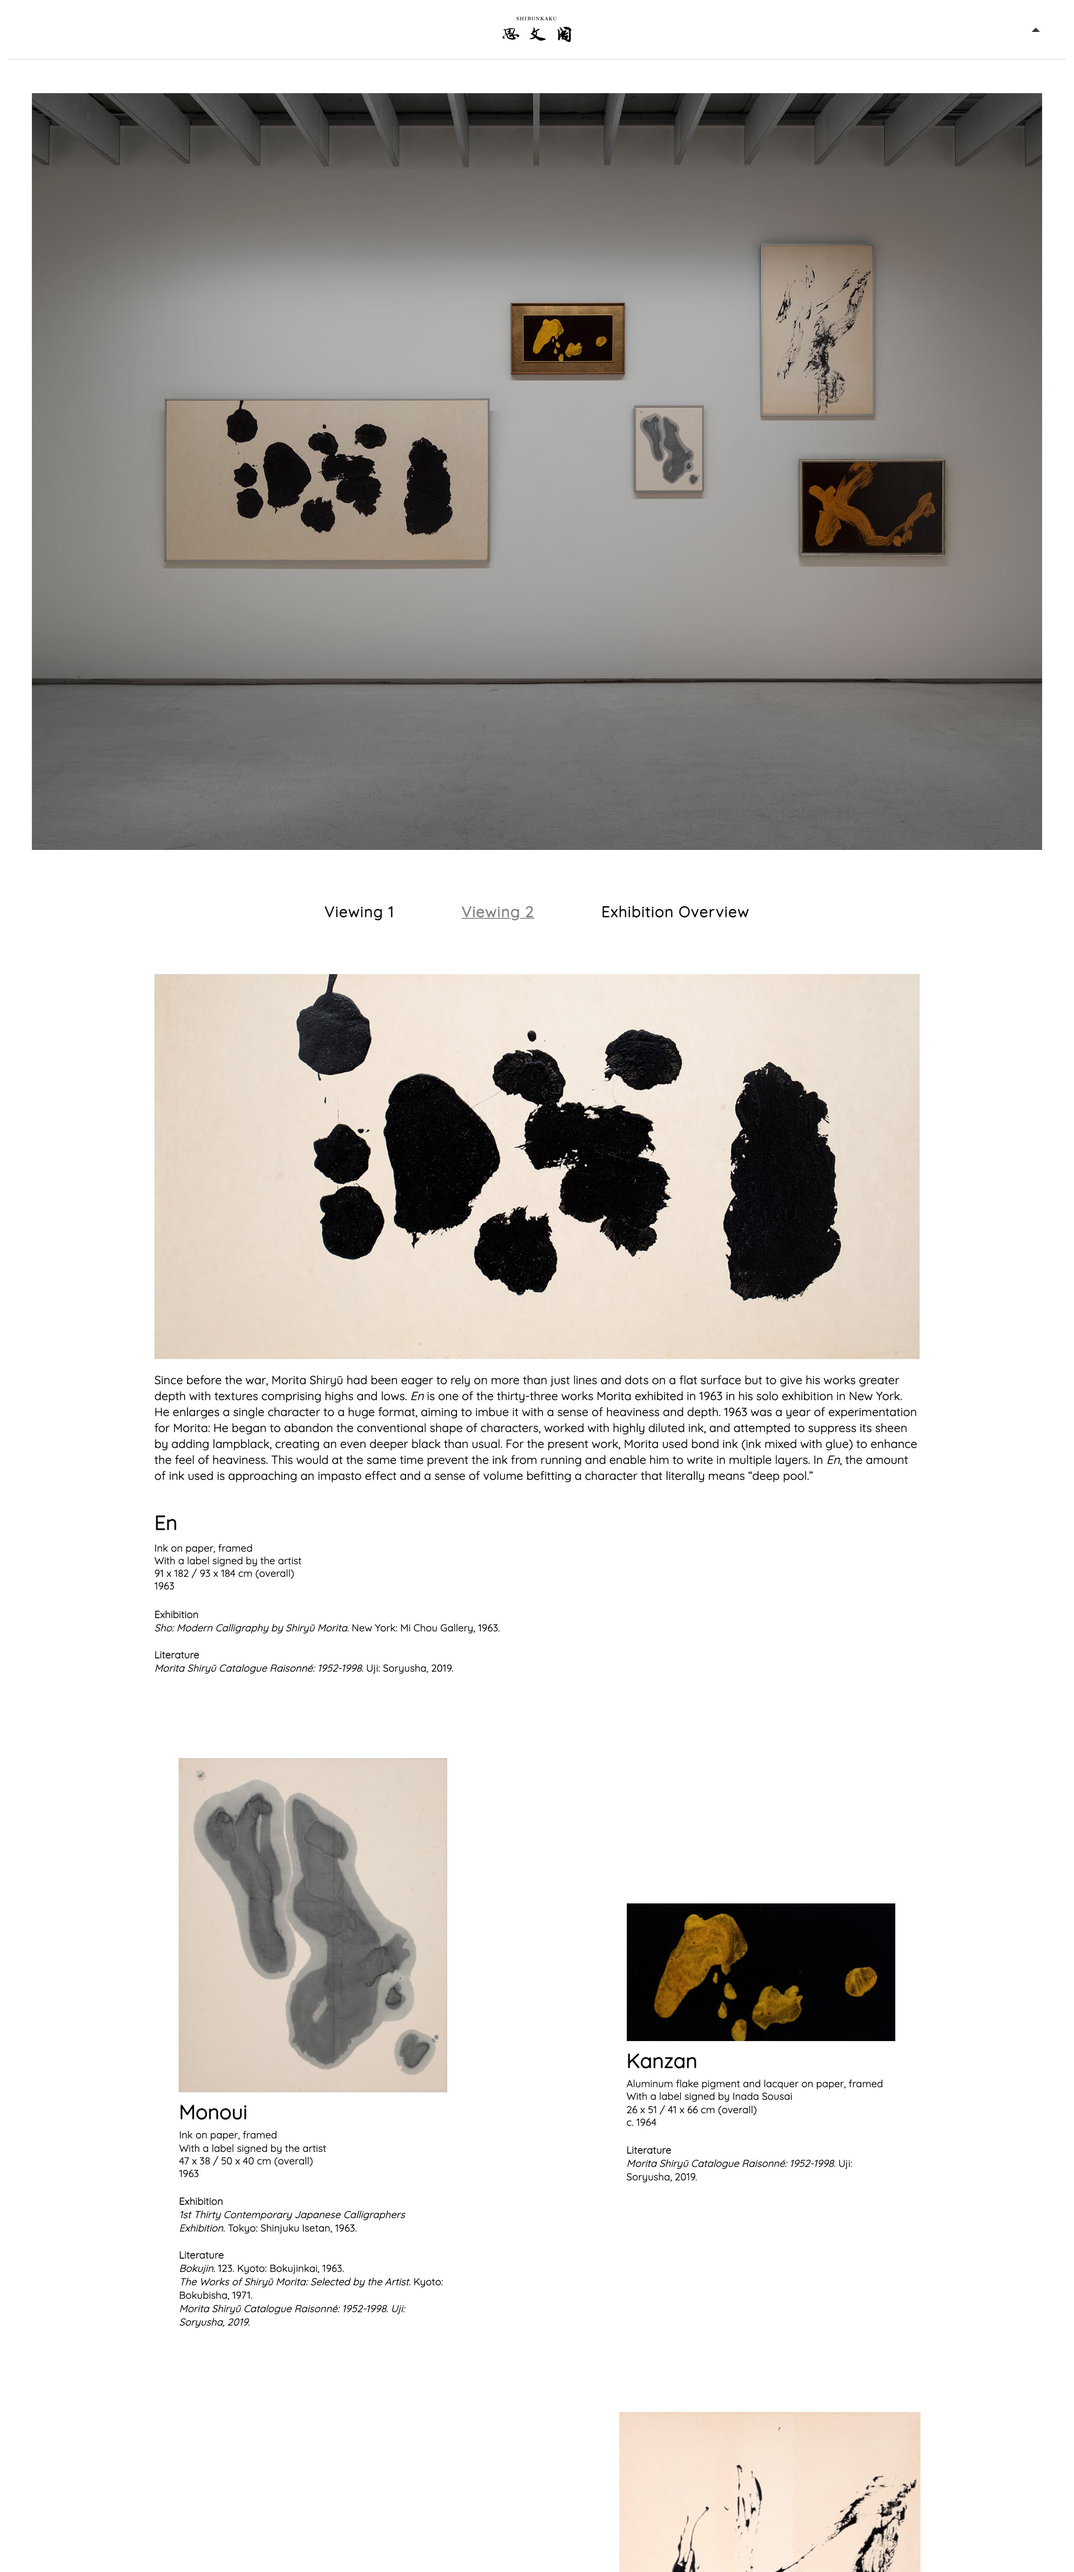
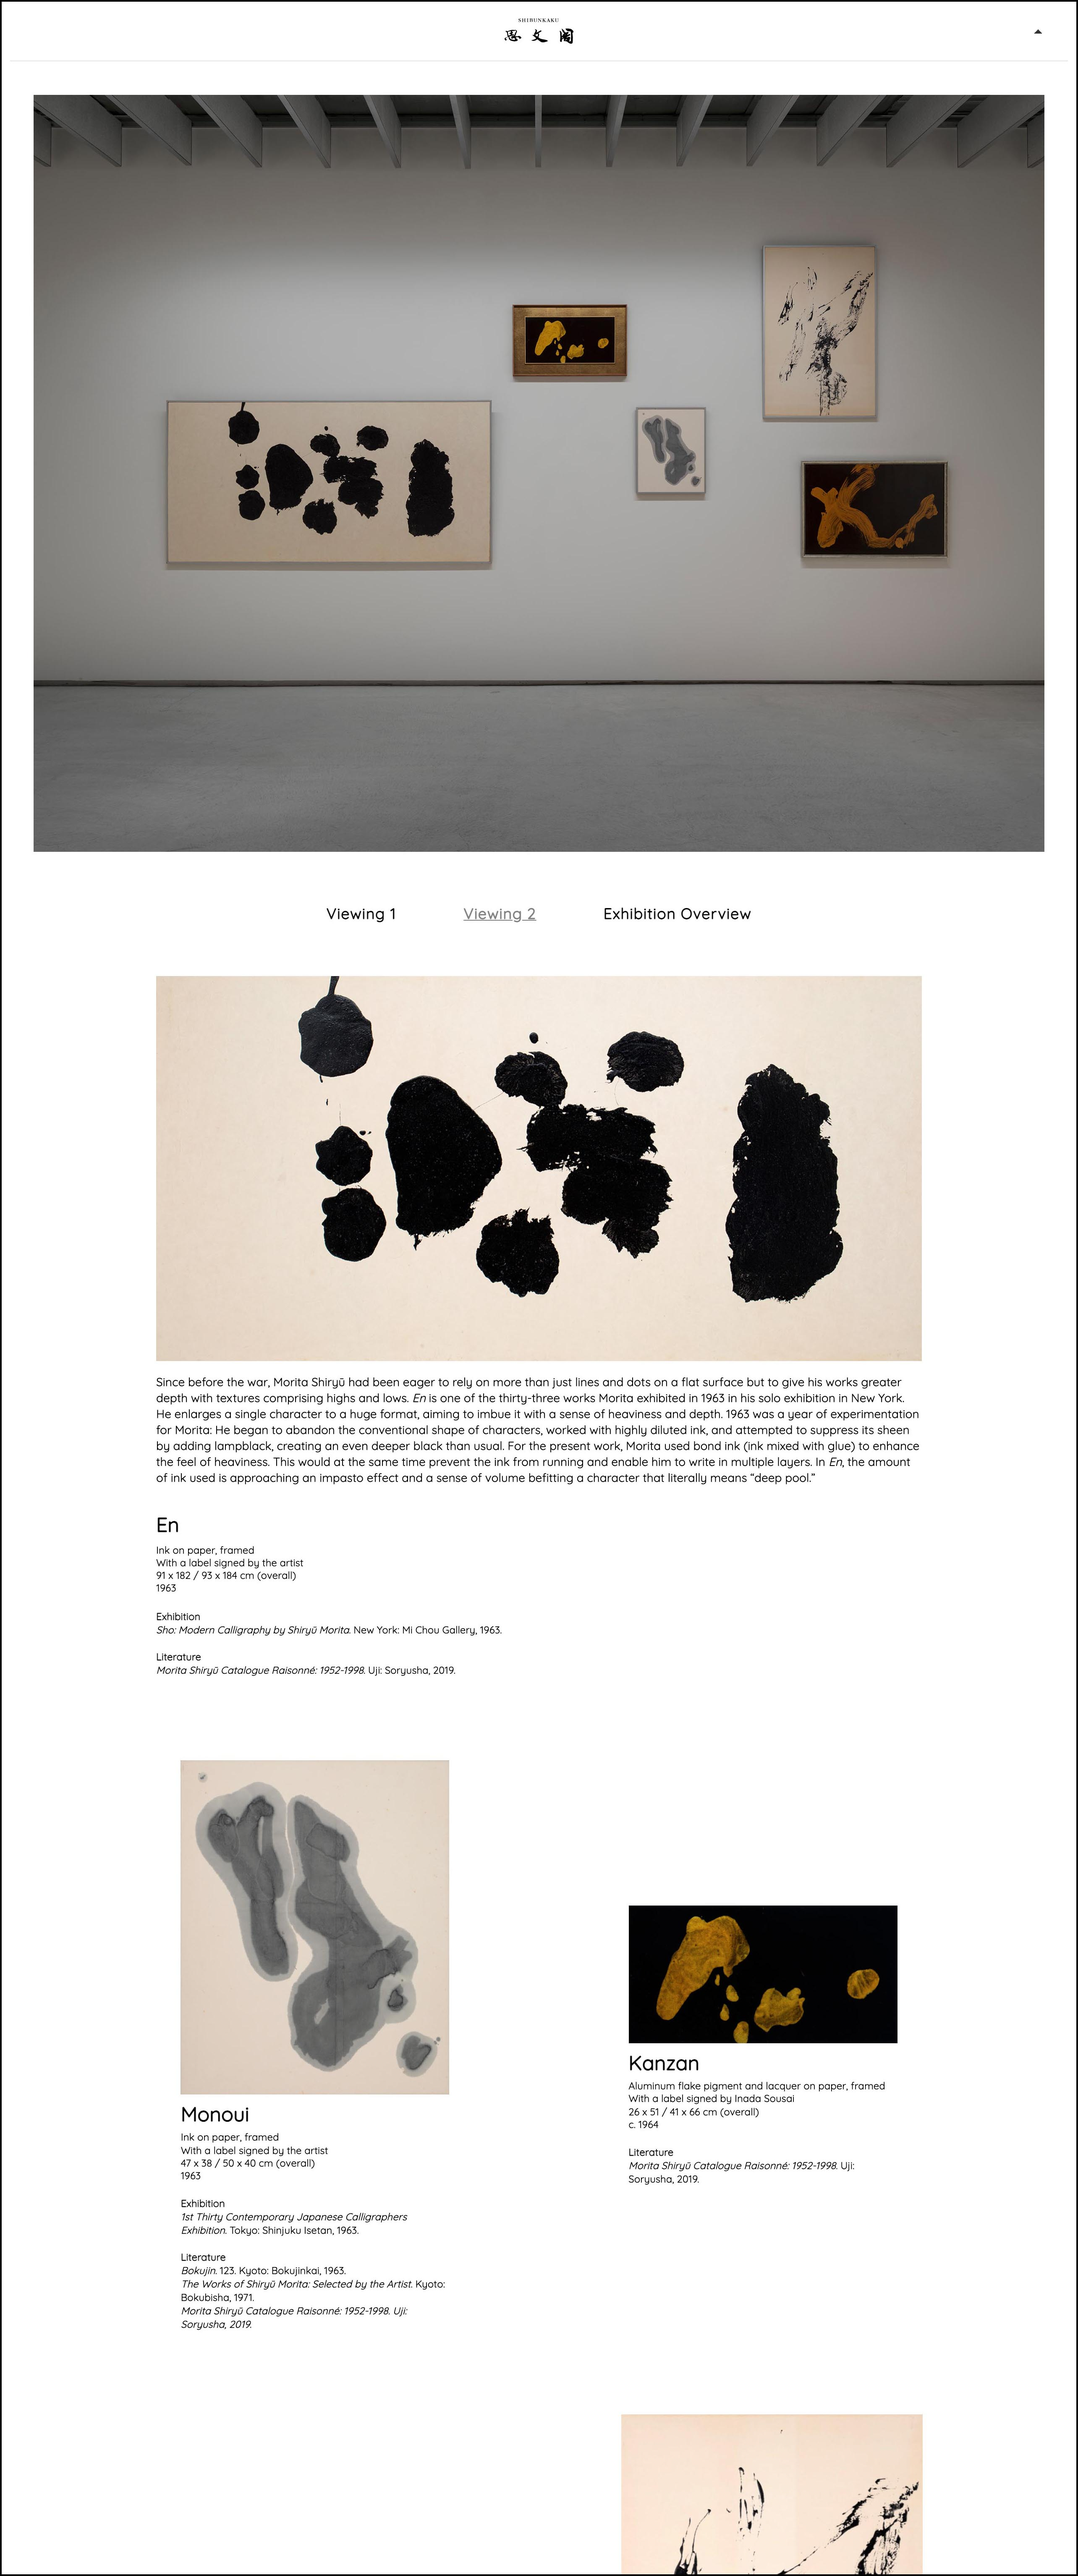
Project page Morita mostly done

diff --git a/src/styles/styles.sass b/src/styles/styles.sass
@@ -50,7 +50,6 @@ nav
         left: 0
         width: 100%
         height: 100%
-        // z-index: 0
     .navbar
         display: flex
         flex-direction: row
@@ -72,6 +71,8 @@ nav
                 font-size: 0.8rem
     .language-switch
         padding: 0 8rem 2.5rem
+        position: relative
+        z-index: 99
         button
             border: none
             background: none
@@ -82,7 +83,6 @@ nav
             color: #999
             cursor: pointer
             transition: $default-transition
-            z-index: 99
             &:first-child
                 margin-right: 1rem
             &:hover
@@ -106,7 +106,7 @@ nav
         font-size: 0.8rem
         padding-right: 40%
 
-// GRID
+// GRID -- scrap all this
 .grid-two
     display: grid
     grid-template-columns: repeat(2, 1fr)
@@ -186,7 +186,7 @@ nav
 .banner-active
     transform: rotate(0.5deg) translateX(10px) translateY(-15px)
 
-// LARGE IMAGE LEFT
+// LARGE IMAGE LEFT -- scrap later
 .project
     font-family: 'Nunito', sans-serif
     margin: 0 8rem
@@ -229,7 +229,7 @@ nav
         letter-spacing: 1px
         margin-top: 0
 
-// LARGE VIDEO
+// LARGE VIDEO -- remove later if not needed?
 .video-container
     display: flex
     justify-content: center
@@ -248,12 +248,11 @@ nav
 // TWO VIDEOS
 .video-2-container
     display: flex
-    // grid-template-columns: 1fr 1fr
     justify-content: space-between
     margin: 0 auto
     padding: 0 12%
     .small-video
-        margin-top: 6rem
+        margin-top: 2rem
         display: flex
         flex-direction: column
         justify-content: space-between
@@ -262,7 +261,6 @@ nav
         p
             font-family: 'Nunito', sans-serif
             font-size: 0.75rem
-            font-weight: lighter
             padding-top: 0.33rem
 
 // TWO IMAGES
@@ -278,6 +276,35 @@ nav
             margin-right: 6rem
         &:nth-child(3)
             width: 12.5%
+
+// IMAGE COLLAGE 1
+.image-collage-1
+    margin: 4rem 8rem
+    display: grid
+    grid-template-columns: repeat(4, 1fr)
+    grid-auto-rows: minmax(100px, auto)
+    column-gap: 3rem
+    row-gap: 2rem
+    div
+        background-color: chartreuse
+        img
+            width: 100%
+            display: block
+    #item-1
+        grid-column: 1 / 3
+        grid-row: 1 / 4
+    #item-2
+        grid-column: 3
+        grid-row: 1 / 3
+    #item-3
+        grid-column: 4
+        grid-row: 1 / 3
+    #item-4
+        grid-column: 1 / 3
+        grid-row: 4 / 6
+    #item-5
+        grid-column: 3 / 5
+        grid-row: 3 / 6
 
 // FOOTER
 .footer

diff --git a/src/components/projects/projectPages/Morita.js b/src/components/projects/projectPages/Morita.js
@@ -2,22 +2,30 @@ import LargeTextCenter from '../reuseComponents/LargeTextCenter';
 import MoritaData from '../../../data/projectData/MoritaData';
 import TwoVideos from '../reuseComponents/TwoVideos';
 import ThreeImages from '../reuseComponents/ThreeImages';
+// import LargeImageLeft from '../reuseComponents/LargeImageLeft';
 
 import desktopImg from '../../../img/morita/morita_macbook.jpg';
 import ipadImg from '../../../img/morita/morita_ipad.jpg';
 import iphoneImg from '../../../img/morita/morita_iphone.jpg';
-import vip1 from '../../../img/morita/morita_vip1.jpg';
-import vip2 from '../../../img/morita/morita_vip2.jpg';
+import ImageCollage1 from '../reuseComponents/ImageCollage1';
+
+// collage images
+import collage1_1 from '../../../img/morita/morita_vip1.jpg';
+import collage1_2 from '../../../img/morita/morita_vip2.jpg';
+import collage1_3 from '../../../img/morita/mortia-part4-snippet.jpg';
+import collage1_5 from '../../../img/morita/morita-part3-snippet.jpg';
 
 const MoritaProject = () => {
     const { headline2, headline3, FootNoteText } = MoritaData;
 
     return (
         <>
+            {/* <LargeImageLeft /> */}
             <ThreeImages img1={desktopImg} img2={ipadImg} img3={iphoneImg} />
+            <LargeTextCenter headline='Pullquote Animations' />
             <TwoVideos />
             <LargeTextCenter headline={headline2} />
-            <ThreeImages img1={vip1} img2={vip2} />
+            <ImageCollage1 img1={collage1_1} img2={collage1_2} img3={collage1_3} img5={collage1_5} />
             <LargeTextCenter headline={headline3} text={FootNoteText} />
 
             {/* div below: replace later */}

diff --git a/src/App.css b/src/App.css
@@ -79,6 +79,8 @@ nav .navbar .menu a {
 }
 nav .language-switch {
   padding: 0 8rem 2.5rem;
+  position: relative;
+  z-index: 99;
 }
 nav .language-switch button {
   border: none;
@@ -90,7 +92,6 @@ nav .language-switch button {
   color: #999;
   cursor: pointer;
   transition: 0.5s;
-  z-index: 99;
 }
 nav .language-switch button:first-child {
   margin-right: 1rem;
@@ -295,7 +296,7 @@ nav .language-switch button:hover {
   padding: 0 12%;
 }
 .video-2-container .small-video {
-  margin-top: 6rem;
+  margin-top: 2rem;
   display: flex;
   flex-direction: column;
   justify-content: space-between;
@@ -306,7 +307,6 @@ nav .language-switch button:hover {
 .video-2-container .small-video p {
   font-family: "Nunito", sans-serif;
   font-size: 0.75rem;
-  font-weight: lighter;
   padding-top: 0.33rem;
 }
 
@@ -325,6 +325,42 @@ nav .language-switch button:hover {
 }
 .two-images img:nth-child(3) {
   width: 12.5%;
+}
+
+.image-collage-1 {
+  margin: 4rem 8rem;
+  display: grid;
+  grid-template-columns: repeat(4, 1fr);
+  grid-auto-rows: minmax(100px, auto);
+  column-gap: 3rem;
+  row-gap: 2rem;
+}
+.image-collage-1 div {
+  background-color: chartreuse;
+}
+.image-collage-1 div img {
+  width: 100%;
+  display: block;
+}
+.image-collage-1 #item-1 {
+  grid-column: 1/3;
+  grid-row: 1/4;
+}
+.image-collage-1 #item-2 {
+  grid-column: 3;
+  grid-row: 1/3;
+}
+.image-collage-1 #item-3 {
+  grid-column: 4;
+  grid-row: 1/3;
+}
+.image-collage-1 #item-4 {
+  grid-column: 1/3;
+  grid-row: 4/6;
+}
+.image-collage-1 #item-5 {
+  grid-column: 3/5;
+  grid-row: 3/6;
 }
 
 .footer {

diff --git a/src/data/projectData/MoritaData.js b/src/data/projectData/MoritaData.js
@@ -16,13 +16,13 @@ Production time: Fall 2020<br>
 Online since: late December 2020<br>
 Tools used: React, SASS, Github, Google Cloud Platform`;
 
-const headline2 = `VIP Pages`;
+const headline2 = `Exhibition Main Page & VIP Pages`;
 
 const MoritaVIPText = `The site contains a VIP area intended for prospective clients and collectors which features each work included with extensive data (exhibition history, literature, provenance etc.; add “/vip” to URL to view). The VIP area link was provided to client the client network via mailing list.
 
 <strong>Note:</strong> It is common policy among galleries to not expose ones best works to the broader public. Hence the arrangement to <em>not</em> link the VIP pages to the main (public) exhibition page.`;
 
-const headline3 = `Footnote Animation; Miscellaneous`;
+const headline3 = `Navigation & Animations; Miscellaneous`;
 
 const FootNoteText = `Lorem ipsum dolor sit amet consectetur, adipisicing elit. Asperiores soluta quasi doloremque amet earum impedit dolore repellendus commodi aperiam ad modi, explicabo eos minima optio, unde blanditiis deleniti voluptates? Odit cupiditate consequatur expedita consequuntur, eos ad quibusdam corrupti fugiat possimus! Quae ipsam labore tempore harum in quisquam animi enim dolore impedit ex, excepturi rerum...`;
 

diff --git a/src/components/projects/reuseComponents/ImageCollage1.js b/src/components/projects/reuseComponents/ImageCollage1.js
@@ -1,0 +1,24 @@
+import React from 'react';
+
+const ImageCollage1 = props => {
+    const { img1, img2, img3, img5 } = props;
+    return (
+        <section className='image-collage-1'>
+            <div id='item-1'>
+                <img src={img1} alt='' />
+            </div>
+            <div id='item-2'>
+                <img src={img2} alt='' />
+            </div>
+            <div id='item-3'>
+                <img src={img3} alt='' />
+            </div>
+            <div id='item-4'></div>
+            <div id='item-5'>
+                <img src={img5} alt='' />
+            </div>
+        </section>
+    );
+};
+
+export default ImageCollage1;
